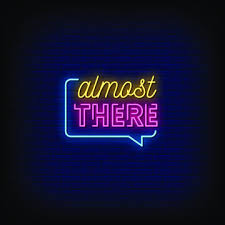
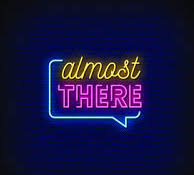
styled wooow

diff --git a/src/App.tsx b/src/App.tsx
@@ -33,6 +33,8 @@ export default function App(props) {
   //if undefined, set to 0
   const bestScore = bestScores[playerName] || 0;
 
+  const [wooow, setWooow] = React.useState(false);
+
   function resetRadioButtons() {
     setValues("");
     setSubmitted("");
@@ -54,82 +56,88 @@ export default function App(props) {
     }
   }
   return (
-    <BrowserRouter>
-      <Routes>
-        <Route
-          path="/"
-          element={
-            <SplashPage playerName={playerName} setPlayerName={setPlayerName} />
-          }
-        />
-        {questions.map((eachQuestion, index) => {
-          console.log(values[index], eachQuestion.answer);
-          return (
-            <Route
-              path={`/question${index + 1}`}
-              element={
-                <QPageLayout
-                  counter={index + 1}
-                  scoreTracker={currentScore}
-                  question={eachQuestion}
-                  nextPage={
-                    index === questions.length - 1
-                      ? "/resultsPage"
-                      : `/question${index + 2}`
-                  }
-                  onChange={(e) => {
-                    if (typeof eachQuestion.answer === "string") {
-                      setValues(({ ...previousValue }) => {
-                        previousValue[index] = e.target.value;
-                        return previousValue;
-                      });
-                    } else {
-                      setValues(({ ...previousValue }) => {
-                        //ensures selection is an object
-                        previousValue[index] = { ...previousValue[index] };
-                        //question 4 object - setting checkbox to true
-                        previousValue[index][e.target.value] =
-                          //inverts previous selection
-                          !previousValue[index][e.target.value];
-                        return previousValue;
-                      });
+    <div className={`reactApp ${wooow ? "wooow" : ""}`}>
+      <BrowserRouter>
+        <Routes>
+          <Route
+            path="/"
+            element={
+              <SplashPage
+                playerName={playerName}
+                setPlayerName={setPlayerName}
+                isWooow={wooow}
+              />
+            }
+          />
+          {questions.map((eachQuestion, index) => {
+            return (
+              <Route
+                path={`/question${index + 1}`}
+                element={
+                  <QPageLayout
+                    counter={index + 1}
+                    scoreTracker={currentScore}
+                    question={eachQuestion}
+                    nextPage={
+                      index === questions.length - 1
+                        ? "/resultsPage"
+                        : `/question${index + 2}`
                     }
-                  }}
-                  onSubmit={(e) => {
-                    setSubmitted(({ ...previousSubmitted }) => {
-                      previousSubmitted[index] = true;
-                      return previousSubmitted;
-                    });
-                  }}
-                  isSubmitted={submitted[index] === true}
-                  value={values[index]}
-                  isCorrect={
-                    //radio buttons
-                    values[index] === eachQuestion.answer ||
-                    //checkbox
-                    //swapped parameters so func will check for ALL required answers vs just selection
-                    shallowEqual(eachQuestion.answer, values[index])
-                  }
-                />
-              }
-            />
-          );
-        })}
+                    onChange={(e) => {
+                      if (typeof eachQuestion.answer === "string") {
+                        setValues(({ ...previousValue }) => {
+                          previousValue[index] = e.target.value;
+                          return previousValue;
+                        });
+                      } else {
+                        setValues(({ ...previousValue }) => {
+                          //ensures selection is an object
+                          previousValue[index] = { ...previousValue[index] };
+                          //question 4 object - setting checkbox to true
+                          previousValue[index][e.target.value] =
+                            //inverts previous selection
+                            !previousValue[index][e.target.value];
+                          return previousValue;
+                        });
+                      }
+                    }}
+                    onSubmit={(e) => {
+                      setSubmitted(({ ...previousSubmitted }) => {
+                        previousSubmitted[index] = true;
+                        return previousSubmitted;
+                      });
+                    }}
+                    isSubmitted={submitted[index] === true}
+                    value={values[index]}
+                    isCorrect={
+                      //radio buttons
+                      values[index] === eachQuestion.answer ||
+                      //checkbox
+                      //swapped parameters so func will check for ALL required answers vs just selection
+                      shallowEqual(eachQuestion.answer, values[index])
+                    }
+                  />
+                }
+              />
+            );
+          })}
 
-        <Route
-          path="/resultsPage"
-          element={
-            <ResultsPage
-              playerName={playerName}
-              resetName={resetName}
-              resetRadioButtons={resetRadioButtons}
-              finalScore={currentScore}
-              bestScore={bestScore}
-              compareScore={compareScore}
-            />
-          }
-        />
-      </Routes>
-    </BrowserRouter>
+          <Route
+            path="/resultsPage"
+            element={
+              <ResultsPage
+                playerName={playerName}
+                resetName={resetName}
+                resetRadioButtons={resetRadioButtons}
+                finalScore={currentScore}
+                bestScore={bestScore}
+                compareScore={compareScore}
+                isWooow={wooow}
+              />
+            }
+          />
+        </Routes>
+      </BrowserRouter>
+    </div>
   );
 }

diff --git a/src/style.css b/src/style.css
@@ -1,13 +1,48 @@
+html,
+body {
+  margin: 0;
+  padding: 0;
+  width: 100%;
+  height: 100%;
+}
+
 #root {
   font-family: "Roboto";
   font-style: normal;
+  width: 100%;
+  height: 100%;
   display: flex;
-  justify-content: center;
-  margin: 5rem 0rem;
+  flex-direction: column;
 }
 
-body {
+.reactApp {
   background-color: #deefff;
+  display: flex;
+  flex-direction: column;
+  align-items: center;
+  height: 100%;
+  padding: 5rem 0rem;
+}
+
+.wooow.reactApp {
+  background-color: #161616;
+}
+
+.wooow .container {
+  background-color: #000000;
+  border-color: rgb(175, 1, 233);
+  box-shadow: 0px 4px 4px rgba(175, 1, 233, 0.75);
+  color: #ffffff;
+}
+
+.wooow .styleButton {
+  background-color: rgb(54, 25, 183);
+  box-shadow: 0px 4px 4px rgba(54, 25, 183, 0.75);
+}
+
+.wooow .styleButton:disabled {
+  background-color: rgb(63, 54, 54);
+  box-shadow: 0px 4px 4px rgba(63, 54, 54, 0.75);
 }
 
 img {
@@ -24,6 +59,7 @@ img {
   box-shadow: 0px 4px 4px rgba(0, 0, 0, 0.25);
   padding: 1rem;
   background-color: #ffffff;
+  color: #2d2d2d;
 }
 
 .topBar {
@@ -40,7 +76,6 @@ img {
   size: 16px;
   line-height: 24px;
   text-align: center;
-  color: #2d2d2d;
 }
 
 .scoreTracker,
@@ -50,7 +85,6 @@ img {
   font-size: 20px;
   line-height: 150%;
   text-align: center;
-  color: #2d2d2d;
 }
 
 .splashHeader,
@@ -59,7 +93,6 @@ img {
   font-size: 36px;
   line-height: 125%;
   text-align: center;
-  color: #2d2d2d;
 }
 
 .styleButton {

diff --git a/src/Components/ResultsPage/index.tsx b/src/Components/ResultsPage/index.tsx
@@ -3,17 +3,20 @@ import "../../style.css";
 import "./style.css";
 import CustomButton from "../CustomButton";
 import amazing_pic from "../../assets/images/amazing.jpeg";
-import almost_there_pic from "../../assets/images/almost_there.jpeg";
+import amazing_neon from "../../assets/images/amazing_neon.jpeg";
+import almost_there from "../../assets/images/almost_there.jpeg";
+import almost_there_neon from "../../assets/images/almost_there_neon.jpeg";
 import cloud_encouragement_pic from "../../assets/images/cloud_encouragement.jpeg";
+import whomp_neon from "../../assets/images/whomp_neon.jpeg";
 import { useEffect } from "react";
 
-function whichPic(score) {
+function whichPic(score, isWooow) {
   if (score === 5) {
-    return amazing_pic;
+    return isWooow ? amazing_neon : amazing_pic;
   } else if (score === 3 || score === 4) {
-    return almost_there_pic;
+    return isWooow ? almost_there_neon : almost_there;
   } else {
-    return cloud_encouragement_pic;
+    return isWooow ? whomp_neon : cloud_encouragement_pic;
   }
 }
 function whichAltText(score) {
@@ -48,7 +51,7 @@ const ResultsPage = (props) => {
   return (
     <div className="container">
       <img
-        src={whichPic(props.finalScore)}
+        src={whichPic(props.finalScore, props.isWooow)}
         alt={whichAltText(props.finalScore)}
       />
 

diff --git a/src/Components/SplashPage/index.tsx b/src/Components/SplashPage/index.tsx
@@ -2,12 +2,13 @@ import React from "react";
 import "../../style.css";
 import CustomButton from "../CustomButton";
 import TriviaBanner from "../../assets/images/trivia_banner.jpeg";
+import NeonTriviaBanner from "../../assets/images/trivia_neon.jpeg";
 
 const SplashPage = (props) => {
   return (
     <div className="container">
       <img
-        src={TriviaBanner}
+        src={props.isWooow ? NeonTriviaBanner : TriviaBanner}
         alt="The word 'trivia' spelled out in game tiles"
       />
       <p className="instructions">

diff --git a/src/Components/AnswerIndicator/style.css b/src/Components/AnswerIndicator/style.css
@@ -13,3 +13,11 @@
 #incorrectIndicator {
   color: #9e3b0a;
 }
+
+.wooow #correctIndicator {
+  color: #51ca00;
+}
+
+.wooow #incorrectIndicator {
+  color: #ec0000;
+}
